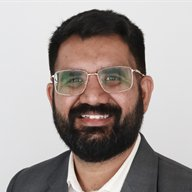
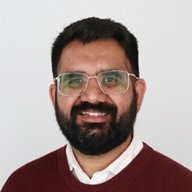
Dr. Baath's photo from the Digital Agriculture Lab page; Dr. titles
Still on the local preview branch; not deployed.

diff --git a/app/page.tsx b/app/page.tsx
@@ -1523,18 +1523,18 @@ export default function Page() {
                 </div>
               </li>
               <li>
-                <img className="avatar" src="/img/people/baath.jpg" alt="Gurjinder S. Baath" width={48} height={48} />
+                <img className="avatar" src="/img/people/baath.jpg" alt="Dr. Gurjinder S. Baath" width={48} height={48} />
                 <div>
-                  <strong>Gurjinder S. Baath</strong>
+                  <strong>Dr. Gurjinder S. Baath</strong>
                   <span className="role">
                     Assistant Professor · Blackland Research and Extension Center
                   </span>
                 </div>
               </li>
               <li>
-                <img className="avatar" src="/img/people/burke.jpg" alt="Joseph A. Burke" width={48} height={48} />
+                <img className="avatar" src="/img/people/burke.jpg" alt="Dr. Joseph A. Burke" width={48} height={48} />
                 <div>
-                  <strong>Joseph A. Burke</strong>
+                  <strong>Dr. Joseph A. Burke</strong>
                   <span className="role">Assistant Professor · Texas A&amp;M AgriLife Lubbock</span>
                 </div>
               </li>

diff --git a/public/img/CREDITS.md b/public/img/CREDITS.md
@@ -100,9 +100,8 @@ owners.
 | File | Person | Source |
 |---|---|---|
 | `people/juneja.jpg` | Pulkit Juneja | https://pulkitjuneja-23.github.io/assets/img/headshot.jpg (his own site) |
-| `people/baath.jpg` | Gurjinder S. Baath | https://blackland.tamu.edu/media/ijkked3j/baath.jpg (Blackland Research and Extension Center profile) |
+| `people/baath.jpg` | Gurjinder S. Baath | https://blackland.tamu.edu/media/1skgrxgo/baath_50.jpg (Digital Agriculture Lab page, https://blackland.tamu.edu/dalab/ — chosen by the authors on 1 October 2026 over his profile-page headshot) |
 | `people/burke.jpg` | Joseph A. Burke | https://agrilifepeople.tamu.edu/img/pictures/26669.png (AgriLife People directory) |
 
-Dr. Baath's
-AgriLife People entry has no photograph — its image URL returns an HTML page —
-which is why his comes from the research centre's site instead.
+Dr. Baath's AgriLife People entry has no photograph — its image URL returns an
+HTML page — which is why his comes from the research centre's site instead.
